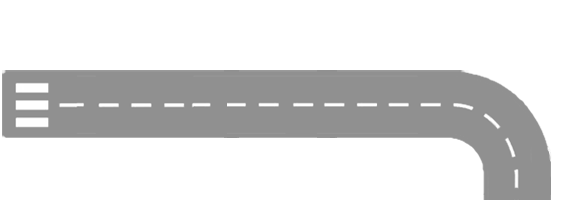
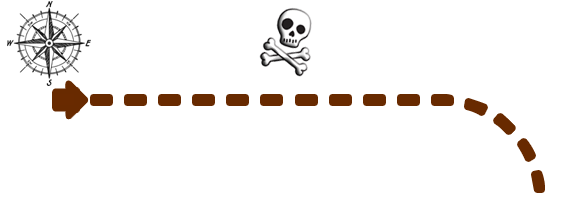
Correções e novidades
Correções e novidades

diff --git a/lib.php b/lib.php
@@ -981,7 +981,7 @@ class format_trail extends format_base {
                 $courseformatoptionsedit['sectiontitletraillengthmaxoption'] = array(
                     'label' => new lang_string('sectiontitletraillengthmaxoption', 'format_trail'),
                     'element_type' => 'text',
-                    'element_attributes' => array('size' => 3),
+                    'element_attributes' => array(array('size' => 3)),
                     'help' => 'sectiontitletraillengthmaxoption',
                     'help_component' => 'format_trail'
                 );
@@ -1013,7 +1013,7 @@ class format_trail extends format_base {
                 $courseformatoptionsedit['sectiontitleboxheight'] = array(
                     'label' => new lang_string('sectiontitleboxheight', 'format_trail'),
                     'element_type' => 'text',
-                    'element_attributes' => array('size' => 3),
+                    'element_attributes' => array(array('size' => 3)),
                     'help' => 'sectiontitleboxheight',
                     'help_component' => 'format_trail'
                 );
@@ -1085,7 +1085,7 @@ class format_trail extends format_base {
                 $courseformatoptionsedit['sectiontitlesummarymaxlength'] = array(
                     'label' => new lang_string('sectiontitlesummarymaxlength', 'format_trail'),
                     'element_type' => 'text',
-                    'element_attributes' => array('size' => 3),
+                    'element_attributes' => array(array('size' => 3)),
                     'help' => 'sectiontitlesummarymaxlength',
                     'help_component' => 'format_trail'
                 );
@@ -1212,7 +1212,8 @@ class format_trail extends format_base {
                     array(
                         1 => new lang_string('none', 'format_trail'),
                         2 => new lang_string('lock', 'format_trail'),
-                        3 => new lang_string('mini_lock', 'format_trail')
+                        3 => new lang_string('mini_lock', 'format_trail'),
+                        4 => new lang_string('mini_lock_tesouro', 'format_trail')
                     )
                 ),
                 'help' => 'sethidesectionlock',
@@ -1227,7 +1228,8 @@ class format_trail extends format_base {
                         5 => new lang_string('tipo_pista2', 'format_trail'),
                         2 => new lang_string('tipo_rio', 'format_trail'),
                         3 => new lang_string('tipo_quebra1', 'format_trail'),
-                        4 => new lang_string('tipo_quebra2', 'format_trail')
+                        4 => new lang_string('tipo_quebra2', 'format_trail'),
+                        5 => new lang_string('tipo_tesouro', 'format_trail')
                     )
                 ),
                 'help' => 'setshowbackground',

diff --git a/renderer.php b/renderer.php
@@ -956,12 +956,16 @@ class format_trail_renderer extends format_section_renderer_base {
                     } else {
                         // Alteração por Jota.
                         $bloqueado = 0;
-                        if ($this->settings['hidesectionlock'] == 3) {
+                        if ($this->settings['hidesectionlock'] == 3 || $this->settings['hidesectionlock'] == 4) {
                             $bloqueado = $this->get_section_availability_bloqueado($thissection,
                                     has_capability('moodle/course:viewhiddensections', $coursecontext));
                         }
                         if ($bloqueado > 0) {
-                            echo html_writer::start_tag('div', array('id' => 'lock',
+                            $cssid = 'lock';
+                            if ($this->settings['hidesectionlock'] == 4) {
+                                $cssid = 'lock_treasure';
+                            }
+                            echo html_writer::start_tag('div', array('id' => $cssid,
                                 'title' => get_string('locked', 'format_trail')));
                             echo html_writer::end_tag('div');
                         }

diff --git a/settings.php b/settings.php
@@ -345,7 +345,11 @@ if ($ADMIN->fulltree) {
     $default = format_trail::get_default_set_show_background();
     $choices = array(
         1 => new lang_string('tipo_pista', 'format_trail'),
-        2 => new lang_string('tipo_rio', 'format_trail')
+        5 => new lang_string('tipo_pista2', 'format_trail'),
+        2 => new lang_string('tipo_rio', 'format_trail'),
+        3 => new lang_string('tipo_quebra1', 'format_trail'),
+        4 => new lang_string('tipo_quebra2', 'format_trail'),
+        5 => new lang_string('tipo_tesouro', 'format_trail')
     );
     $settings->add(new admin_setting_configselect($name, $title, $description, $default, $choices));
 }

diff --git a/lang/en/format_trail.php b/lang/en/format_trail.php
@@ -249,6 +249,7 @@ $string['tipo_pista2'] = 'Gray track';
 $string['tipo_rio'] = 'River';
 $string['tipo_quebra1'] = 'Puzzle 1';
 $string['tipo_quebra2'] = 'Puzzle 2';
+$string['tipo_tesouro'] = 'Treasure';
 $string['defaultsetshowbackground'] = 'Defaul style trail';
 $string['setshowbackground'] = 'Style Trail';
 $string['setshowbackground_help'] = 'Choose the track background';
@@ -265,6 +266,7 @@ $string['checked'] = 'Completed';
 // Lock options.
 $string['lock'] = 'Lock';
 $string['mini_lock'] = 'Mini lock';
+$string['mini_lock_tesouro'] = 'Mini lock treasure';
 $string['locked'] = 'Locked';
 
 // Reset.

diff --git a/format.php b/format.php
@@ -105,6 +105,16 @@ echo '#lock {
         background-image:  url("' . $CFG->wwwroot . '/course/format/trail/pix/lock_mini.png");
         background-repeat: no-repeat;
     }';
+echo '#lock_treasure {
+        z-index: 5;
+        position:absolute;
+        top: 0px;
+        right: 1px;
+        width: 32px;
+        height: 32px;
+        background-image:  url("' . $CFG->wwwroot . '/course/format/trail/pix/lock_mini_tesouro.png");
+        background-repeat: no-repeat;
+    }';
 echo '#check {
         z-index: 5;
         position:absolute;

diff --git a/version.php b/version.php
@@ -29,7 +29,7 @@
 defined('MOODLE_INTERNAL') || die();
 
 // Plugin version.
-$plugin->version = 2021050725;
+$plugin->version = 2021050727;
 
 // Required Moodle version.
 $plugin->requires  = 2019111800;

diff --git a/CHANGES.md b/CHANGES.md
@@ -1,0 +1,10 @@
+moodle-format_trail
+========================
+
+Changes
+-------
+### Changes Version 3.8.1 for Moodle 3.2 onwards (2021050727)
+
+* 2021-07-09 - Initial version
+* 2021-09-06 - **Fixes for PHP 8**
+* 2021-09-06 - **New style of hunting or treasure trail**
